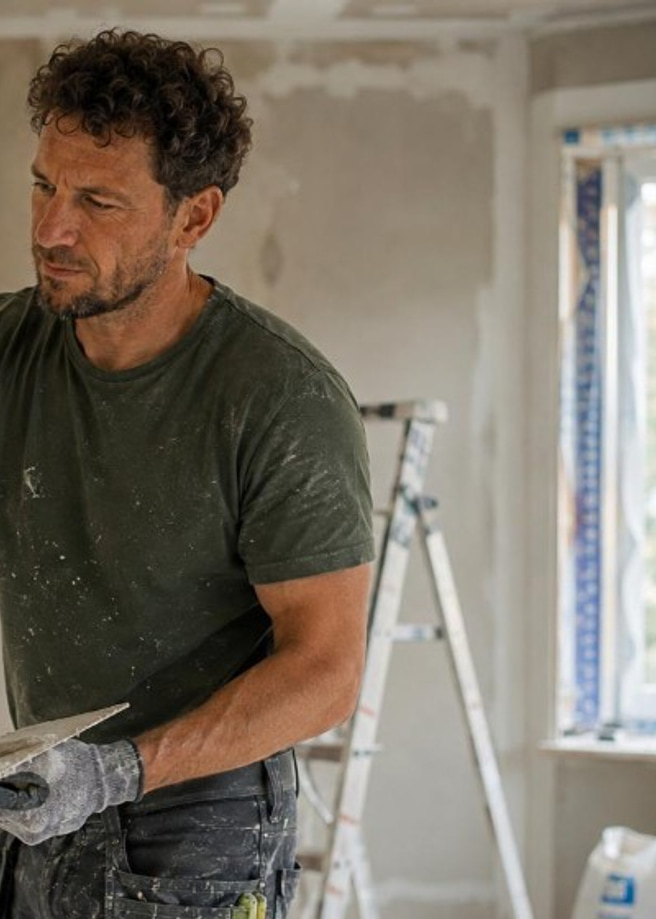
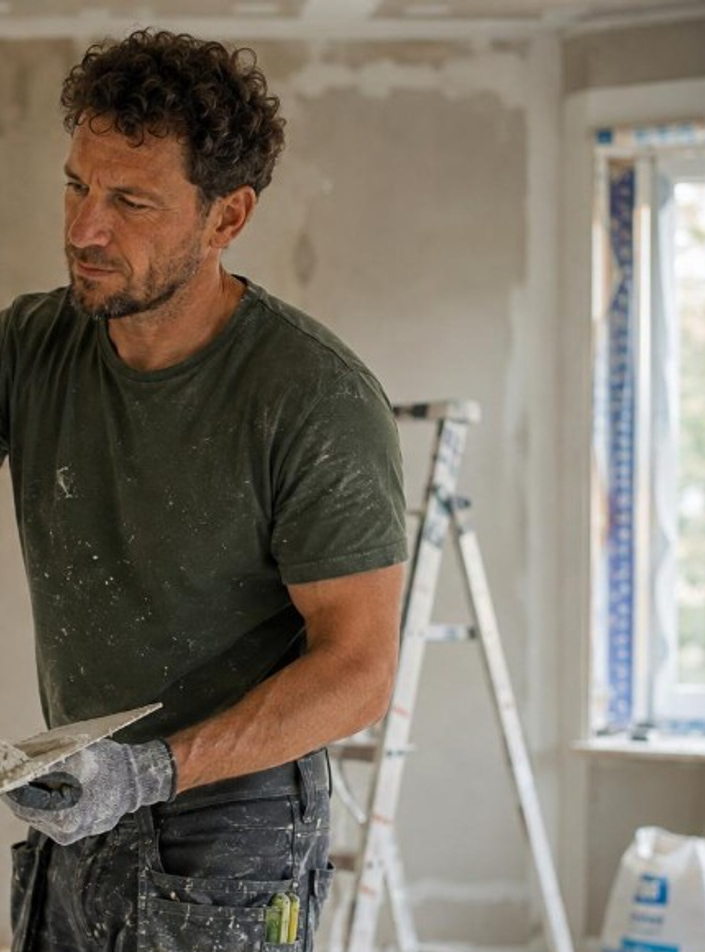
Try tighter sharp mobile partners hero crop.

diff --git a/css/partners.css b/css/partners.css
@@ -1033,11 +1033,10 @@
     padding:calc(56px + 1.25rem) 0 1.65rem;
   }
   .partners-hero--photo{
-    /* Slightly taller, still compact vs full-screen */
     min-height:0;
     height:auto;
     align-items:flex-end;
-    padding:calc(56px + 8.5rem) 0 1.15rem;
+    padding:calc(56px + 7.75rem) 0 1.1rem;
     background:#1a1c18;
   }
   .partners-hero-media{
@@ -1046,14 +1045,14 @@
     bottom:0;
     left:0;
     background-color:transparent;
-    /* Sharpest 2x original; mild zoom, face in, wall-hand out */
+    /* Hi-res face crop from 2x master; wall-hand out */
     background-image:image-set(
-      url("/assets/photos/partners-hero-craftsman-2x.avif") type("image/avif"),
-      url("/assets/photos/partners-hero-craftsman-2x.webp") type("image/webp"),
-      url("/assets/photos/partners-hero-craftsman-2x.jpg") type("image/jpeg")
+      url("/assets/photos/partners-hero-craftsman-mobile.avif?v=25") type("image/avif"),
+      url("/assets/photos/partners-hero-craftsman-mobile.webp?v=25") type("image/webp"),
+      url("/assets/photos/partners-hero-craftsman-mobile.jpg?v=25") type("image/jpeg")
     );
-    background-size:145% auto;
-    background-position:76% 18%;
+    background-size:cover;
+    background-position:35% 10%;
   }
   .partners-hero-shade{
     top:0;
@@ -1061,7 +1060,7 @@
     bottom:0;
     left:0;
     background:
-      linear-gradient(180deg, rgba(22,24,20,.28) 0%, rgba(22,24,20,.42) 34%, rgba(22,24,20,.72) 64%, rgba(22,24,20,.88) 100%);
+      linear-gradient(180deg, rgba(22,24,20,.22) 0%, rgba(22,24,20,.38) 36%, rgba(22,24,20,.7) 68%, rgba(22,24,20,.86) 100%);
   }
   .partners-hero-copy{
     margin:0;

diff --git a/partners.html b/partners.html
@@ -23,7 +23,7 @@
 <link rel="preconnect" href="https://fonts.gstatic.com" crossorigin>
 <link href="https://fonts.googleapis.com/css2?family=Inter:wght@400;500;600;700&family=Space+Grotesk:wght@500;600;700&family=Space+Mono:wght@400;700&display=swap" rel="stylesheet">
 <link rel="stylesheet" href="/css/styles.css">
-<link rel="stylesheet" href="/css/partners.css?v=partners-hero-mobile-compact-4">
+<link rel="stylesheet" href="/css/partners.css?v=partners-hero-mobile-compact-5">
 </head>
 <body class="page-partners">
 <a href="#main" class="skip-link">Ga naar inhoud</a>
